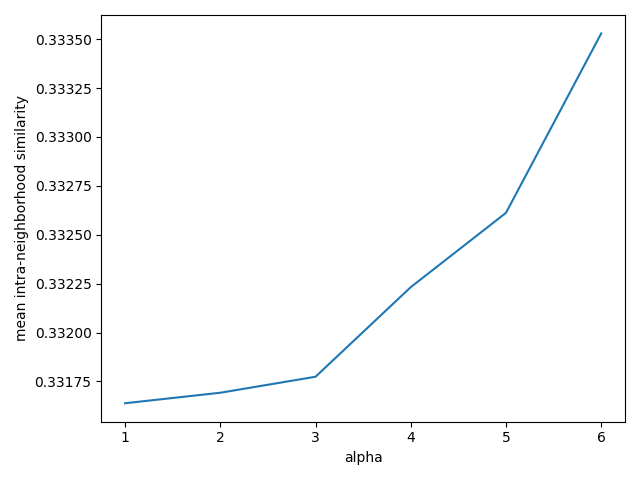
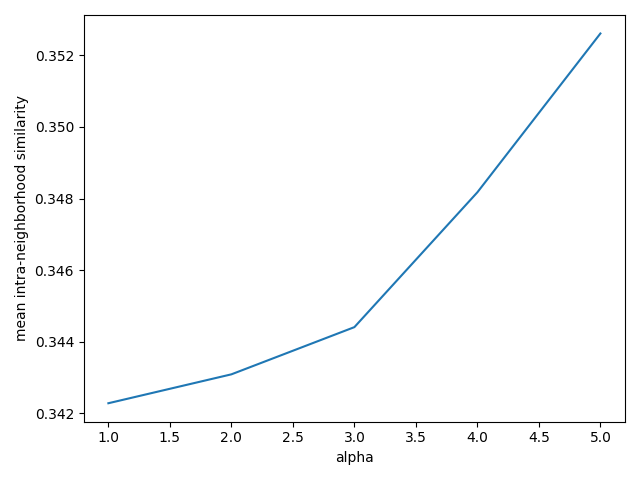
Planted data. p-stable collision probabilities.

diff --git a/lsh-qd.py b/lsh-qd.py
@@ -2,6 +2,7 @@ import math
 import os
 
 import numpy as np
+from scipy import integrate
 from tqdm import tqdm
 from collections import defaultdict
 from matplotlib import pyplot as plt
@@ -242,6 +243,7 @@ class pStableHash(LocalitySensitiveHash):
         b = np.random.random() * self.r
 
         def hash_func(x):
+            # Project the item to a line and discretize the line into buckets; return bucket id
             return math.floor((x.T @ a + b) / self.r)
 
         return hash_func
@@ -259,8 +261,8 @@ class pStableHash(LocalitySensitiveHash):
 
 class AlphaLSH(object):
     '''
-    An implementation of the MinHash algorithm for approximate nearest
-    neighbors on binary strings, designed for use in niching and QD. In
+    An extension of LSH algorithms for approximate nearest
+    neighbors, designed for use in niching and QD. In
     addition to the typical parameters of # of tables and # of bands, this
     also accepts an alpha parameter when querying. An item in the database
     is returned only if it is hashed into the same bucket as the query in
@@ -344,7 +346,7 @@ class AlphaLSHContainer():
         return self.lsh.query_idx(data_idx, alpha=alpha)
 
     def query(self, x, alpha=1, threshold=0):
-        return self.lsh.query_idx(x, alpha=alpha)
+        return self.lsh.query(x, alpha=alpha)
 
 
 def collision_prob(sim, k, l):
@@ -388,6 +390,54 @@ def collision_prob_alpha(sim, k, l, alpha=1):
 
     return p_coll
 
+def collision_prob_pstable(dists, k, l, r, f_G):
+    '''
+    Args:
+        sim:
+        k: number of projections (bands)
+        l: number of hash tables
+        r: the width of the buckets in the projections
+    Returns:
+        an integer or 1D vector of collision probabilities in [0, 1]
+    '''
+    x_res = 1000
+    p_projs = np.empty(len(dists))
+
+    assert dists[0] == 0
+    p_projs[0] = 1
+    for di, d in enumerate(dists[1:]):
+        result = integrate.quad(lambda t: (1 / d) * f_G(t / d) * (1 - (t / r)), 0, r)
+        p_proj = 2 * result[0]
+        p_projs[di+1] = p_proj
+
+    coll_probs = collision_prob(sim=p_projs, k=k, l=l)
+
+    return coll_probs
+
+
+def plot_collision_prob_pstable(ks, ls, rs):
+
+    # d = np.linspace(-2, 2, 100)
+    #
+    def f_G(x):
+        return np.exp(-x**2/2) / math.sqrt(2*math.pi)
+    # f_G_d = f_G(d)
+    # plt.plot(d, f_G_d)
+    # plt.show()
+
+    dists = np.linspace(0, 4, 100)
+    for li, l in enumerate(ls):
+        for ri, r in enumerate(rs):
+            for ki, k in enumerate(ks):
+                coll_probs = collision_prob_pstable(dists, k, l, r, f_G)
+                label = f'k = {round(k, 2)}' if ki == 0 or ki == len(ks) - 1 else None
+                plt.plot(dists, coll_probs, label=label, color='blue', alpha=1 - 0.8 * (len(ks) - ki) / len(ks))
+            plt.xlabel('item distances')
+            plt.ylabel('collision probability')
+            plt.legend()
+            plt.savefig(os.path.join(f'{coll_probs_dir}', f'pstable_l-{l}_r-{r}'))
+            plt.close()
+
 def plot_collision_prob(ks, ls):
     '''
     Plot collision probabilities by similarity in an LSH scheme over a set of parameters.
@@ -397,13 +447,16 @@ def plot_collision_prob(ks, ls):
     '''
     cps = []
     sim = np.arange(0, 1.01, 1 / 100)  # the
+
     for l in ls:
         l_cps = []
+
         for ki, k in enumerate(ks):
             cp = collision_prob(sim, k, l)
             l_cps.append(cp)
             label = f'k = {int(k)}' if ki == 0 or ki == len(ks) - 1 else None
             plt.plot(sim, cp, label=label, color='red', alpha=0.2 + 0.8 * (ki / (len(ks) - 1)))
+
         cps.append(l_cps)
         plt.legend()
         plt.xlabel('item similarity')
@@ -420,10 +473,12 @@ def plot_collision_prob_alpha(k, l):
     '''
     v = np.arange(0, 1.01, 1 / 100)  # the
     alphas = np.arange(0, l + 1, l / 20)
+
     for a in alphas:
         p_coll = collision_prob_alpha(v, k, l, alpha=a)
         label = f'alpha = {int(a)}' if a == alphas[0] or a == alphas[-1] else None
         plt.plot(v, p_coll, label=label, color='blue', alpha=0.2 + 0.8 * (a / (alphas[-1] - alphas[0])))
+
     plt.xlabel('item similarity')
     plt.ylabel('collision probability')
     plt.legend()
@@ -450,43 +505,104 @@ def gen_uni_rand_data_real(n_data, n_dims):
         n_data: number of data points
         n_dims: number of features
     Returns:
-        a 2D (n_data, dims) numpy array of data
+        data: a 2D (n_data, dims) numpy array of data
     '''
     data = np.random.random((n_data, n_dims))
     data = (data - 0.5) * 2
 
     return data
 
+def gen_planted_rand_data_real(query_data, n_data, R, epsilon):
+    '''
+    Args:
+        query_data: the 2D array of query points around which to adversarially construct our data
+        R: the radius of interest around each query point
+        epsilon: the annulus between R and R + epsilon is the annulus of disinterest
+    Returns:
+        data: a 2D (n_data, dims) numpy array of data
+    '''
+    n_dims = query_data.shape[1]
+    n_queries = query_data.shape[0]
+    n_nbs = n_queries
+    n_non_nbs = n_data - n_nbs
+
+    # generate random direction vectors to be projected to the surface of some sphere
+    data = np.random.normal(0, 1, (n_data, n_dims))
+
+    # randomly project each neighbor vector to the surface of a ball with uniformly random radius in [0, R]
+    # project non-neighbors to the annulus in [R, R+epsilon]
+    data = data / np.linalg.norm(data, axis=-1, keepdims=True)
+    # random radius sizes for each datapoint
+    radii = np.random.random(size=(n_data, 1))
+    radii[:n_nbs] *= R  # neighbor radii (of ball)
+    radii[n_nbs:] *= epsilon # non-neighbor radii (of annulus)
+    data[:n_nbs] *= radii[:n_nbs]  # neighbors are scaled by their radii to be inside ball
+    data[n_nbs:] = data[n_nbs:] * R + data[n_nbs] * radii[n_nbs:]  # non-neighbors are scaled by width of annulus then added to themselves
+                                                 # at the unit ball
+
+    # re-center the neihbors around each of the query points
+    data[:n_nbs] = data[:n_nbs] + query_data
+
+    # translate the non-neighbors to center around random query points
+    q_idxs = np.random.choice(n_queries, size=n_non_nbs)
+    # FIXME: some non-neighbors fall within the R-balls! Why?
+    data[n_nbs:] = data[n_nbs:] + query_data[q_idxs]
+
+    dists = np.linalg.norm(query_data[None, :, :] - data[:, None, :], axis=-1)
+
+    return data
+
+def plot_pairwise_dist(data):
+    dists = np.linalg.norm(data[None, :, :] - data[:, None, :], axis=-1)
+    n_buckets = 10
+    low, high = data.mean() - 1.0 * data.std(), data.mean() + 1.0 * data.std()
+    buck_size = (high - low) / n_buckets
+    ys = []
+    for i in range(n_buckets):
+        ys.append(np.sum(np.where((dists >= low + buck_size * i) & (dists < low + buck_size * (i + 1)))))
+
+    plt.plot(ys)
+    plt.savefig(os.path.join(f'{figs_dir}', 'planted_data_dist'))
+    plt.close()
+
+
 def plot_mean_nbs_by_alpha(scheme='MinHash'):
     '''
     Plot the effect of the LSH alpha parameter on the average neighborhood size and intra-neighborhood similarity in
-     neighborhoods returned by the LSH scheme.
+    neighborhoods returned by the LSH scheme.
     Args:
         scheme: which type of LSH scheme to use
     '''
     k = 1
     l = 12
     n_data = 100
-    n_dims = 1000
+    n_dims = 100
+    n_queries = 10
 
     if scheme == 'MinHash':
         lsh_container = AlphaLSHContainer(l=l, k=k)
         data = gen_uni_rand_data_bin(n_data, n_dims)
         similarity = lambda a, b: 1 - jaccard(a, b)
+        query_data = gen_uni_rand_data_bin(n_queries, n_dims)
 
     elif scheme == 'pStable':
         lsh_args = {
             'lsh_cls': pStableHash,
-            'n_dims': n_dims,
-        }
+            'n_dims': n_dims}
         lsh_container = AlphaLSHContainer(l=l, k=k, lsh_cls=AlphaLSH, lsh_args=lsh_args)
         data = gen_uni_rand_data_real(n_data, n_dims)
-        similarity = lambda a, b: ((a - b)**2).sum(axis=-1)  # Euclidean 2-norm
+        similarity = lambda a, b: - ((a - b)**2).sum(axis=-1)  # negative Euclidean 2-norm
+        query_data = gen_uni_rand_data_real(n_queries, n_dims)
+        epsilon = 1
+        query_data = gen_planted_rand_data_real(query_data, n_data, R=0.1, epsilon=0.1)
+        plot_pairwise_dist(data)
+
+    else:
+        raise Exception
 
     new_idxs = lsh_container.store(data)
+    n_data = data.shape[0]
     assert new_idxs == list(range(n_data))
-    n_queries = 10
-    q_idxs = np.random.choice(list(lsh_container.data.keys()), n_queries, replace=False)
     alphas = range(1, l)
     # TODO: Is this equivalent to just averaging over *all* alpha-neighborhoods in our container? Is there an easy way
     #   to collect all these neighborhoods?
@@ -499,8 +615,8 @@ def plot_mean_nbs_by_alpha(scheme='MinHash'):
         q_sims = []  # mean intra-neighborhood similarity for each query item
 
         # Try each query item
-        for q_idx in q_idxs:
-            nb_idxs = lsh_container.query_idx(q_idx, alpha=alpha)
+        for q in query_data:
+            nb_idxs = lsh_container.query(q, alpha=alpha)
             n_nbs = len(nb_idxs)
             mean_sim = np.mean([similarity(lsh_container.data[i], lsh_container.data[j]) for i in nb_idxs
                                for j in nb_idxs if i > j])
@@ -537,7 +653,16 @@ def plot_mean_nbs_by_alpha(scheme='MinHash'):
 if __name__ == "__main__":
     plot_mean_nbs_by_alpha(scheme='pStable')
     plot_mean_nbs_by_alpha(scheme='MinHash')
+
+    # Minhash collision probabilities
     ks = np.arange(1, 20)
     ls = np.arange(20, 21)
     plot_collision_prob(ks=ks, ls=ls)
     plot_collision_prob_alpha(k=1, l=20)
+
+    # p-stable collision probabilities
+    ks = np.arange(1, 20)
+    ls = np.arange(11, 21)
+    # rs = np.linspace(0, 4.01, 0.1)
+    rs = [1, 2, 3, 4]
+    plot_collision_prob_pstable(ks, ls, rs)
